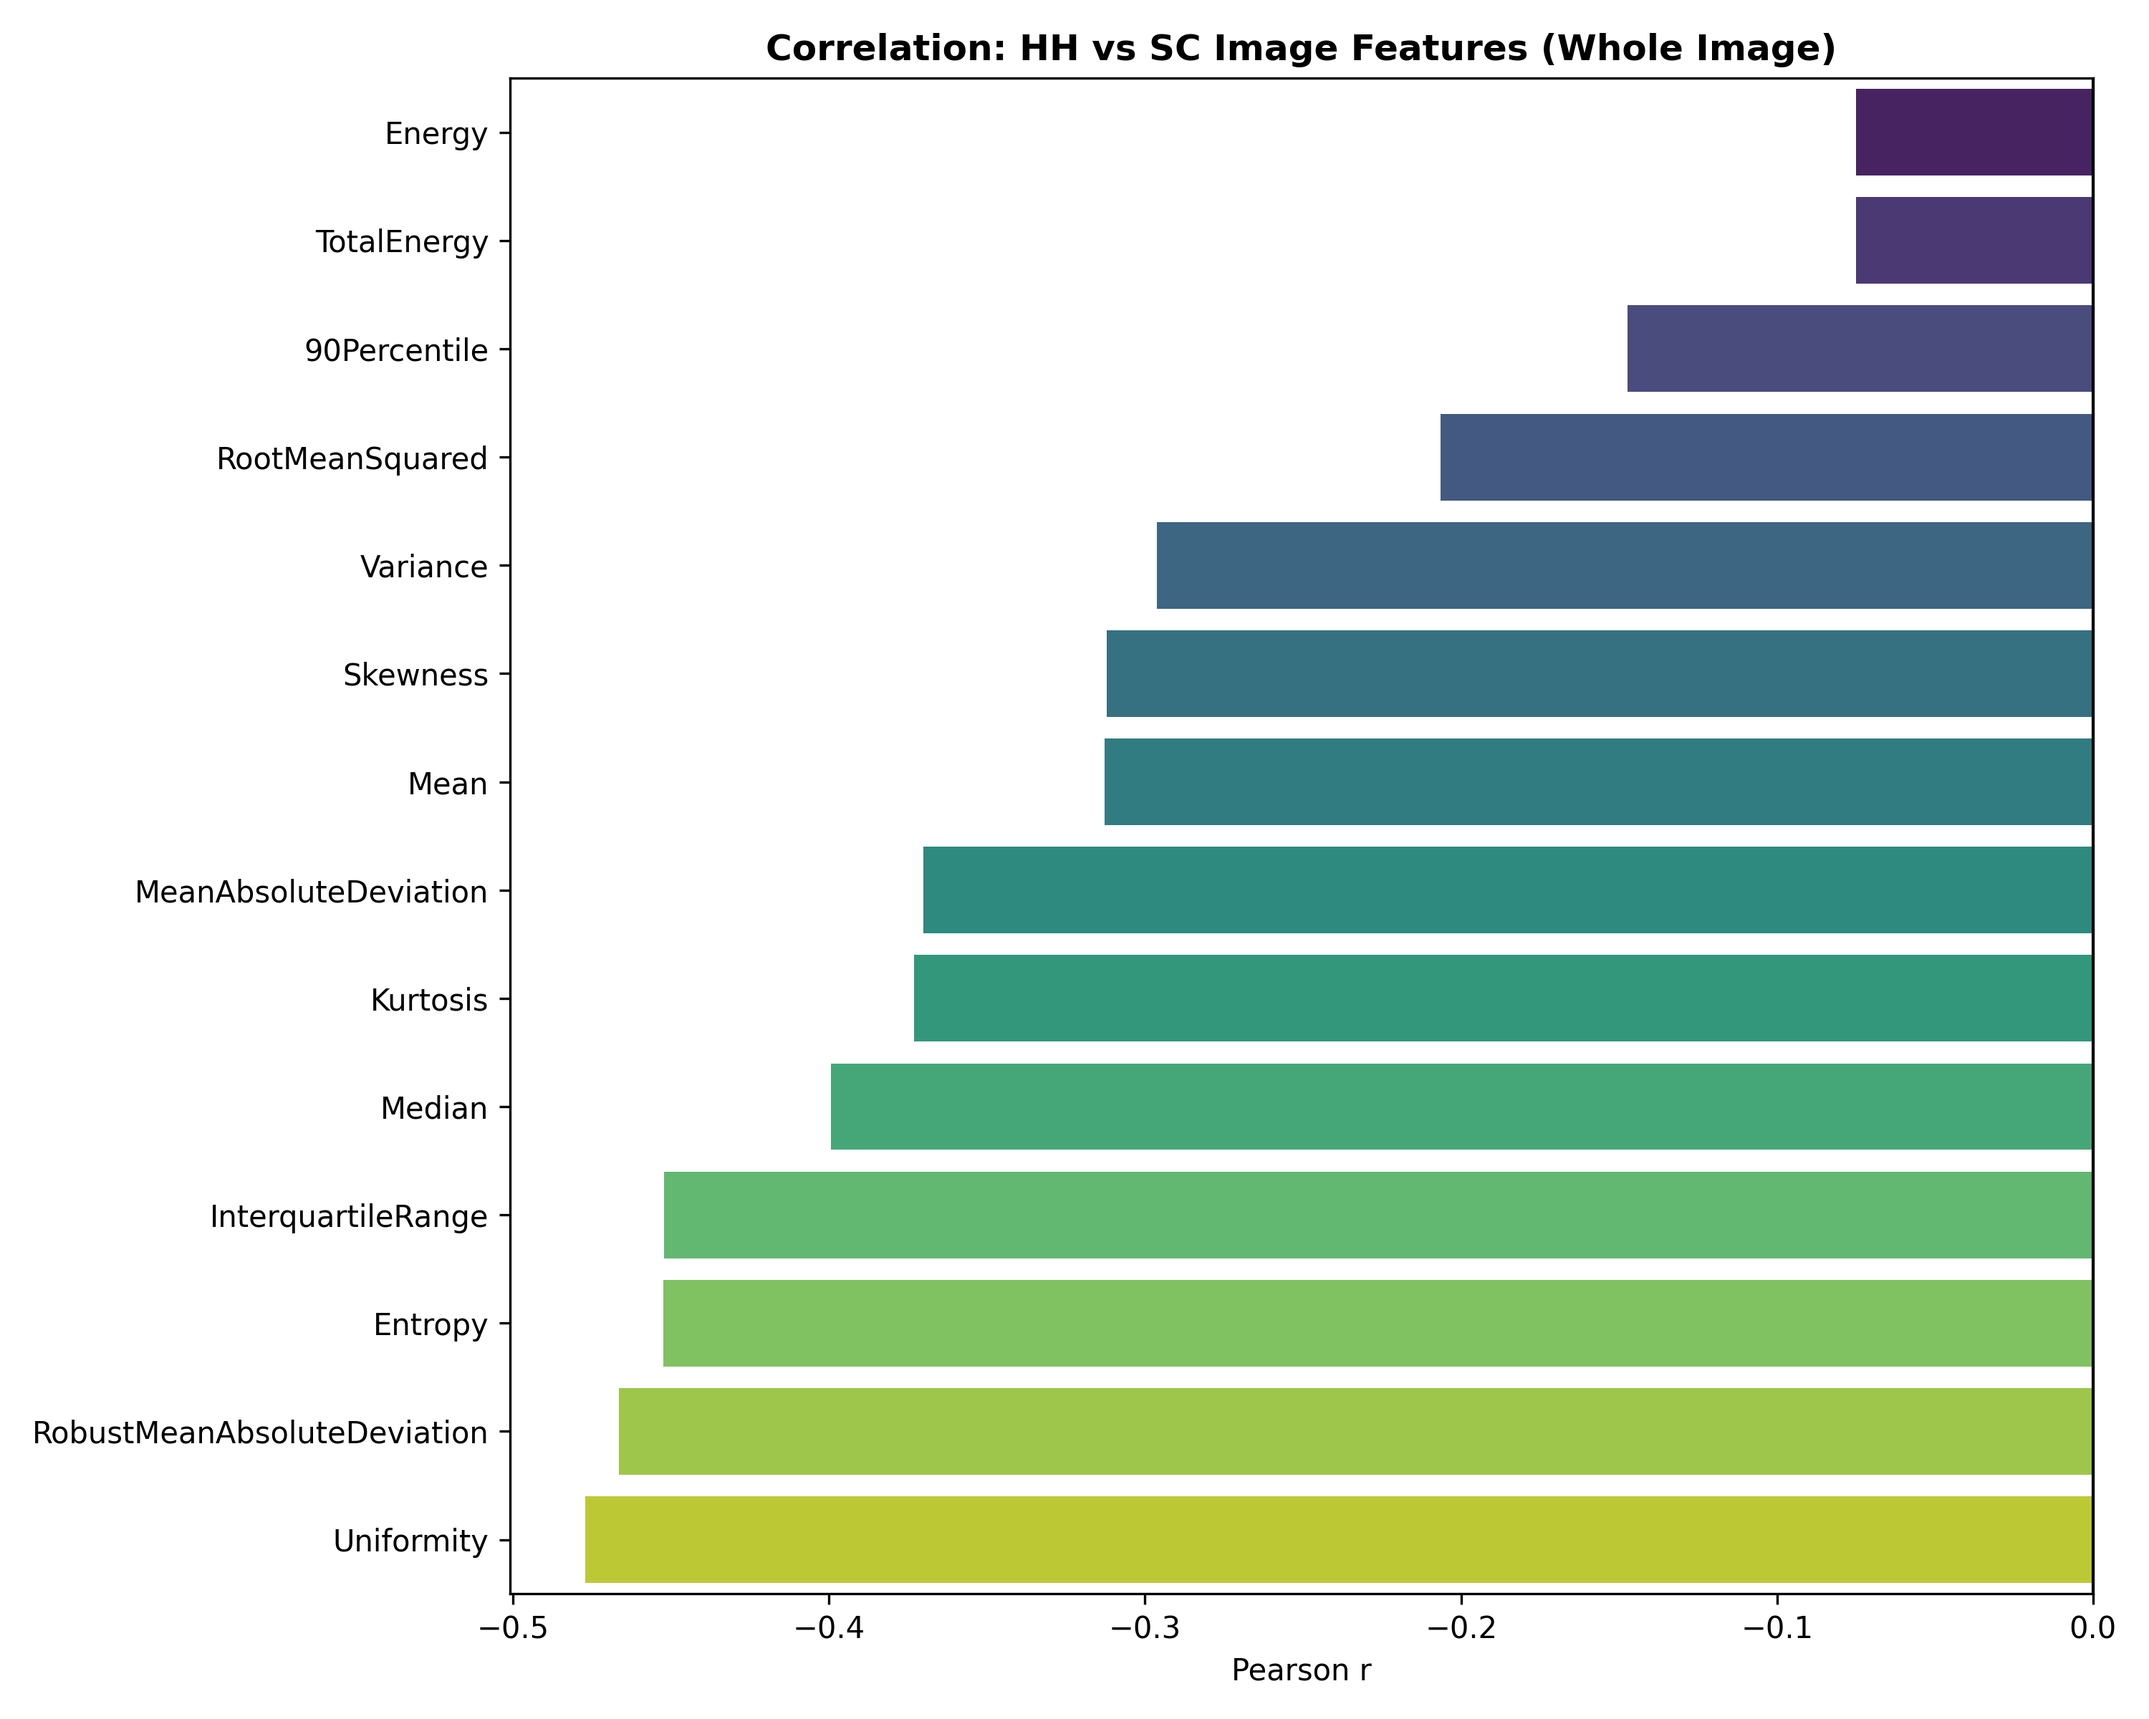
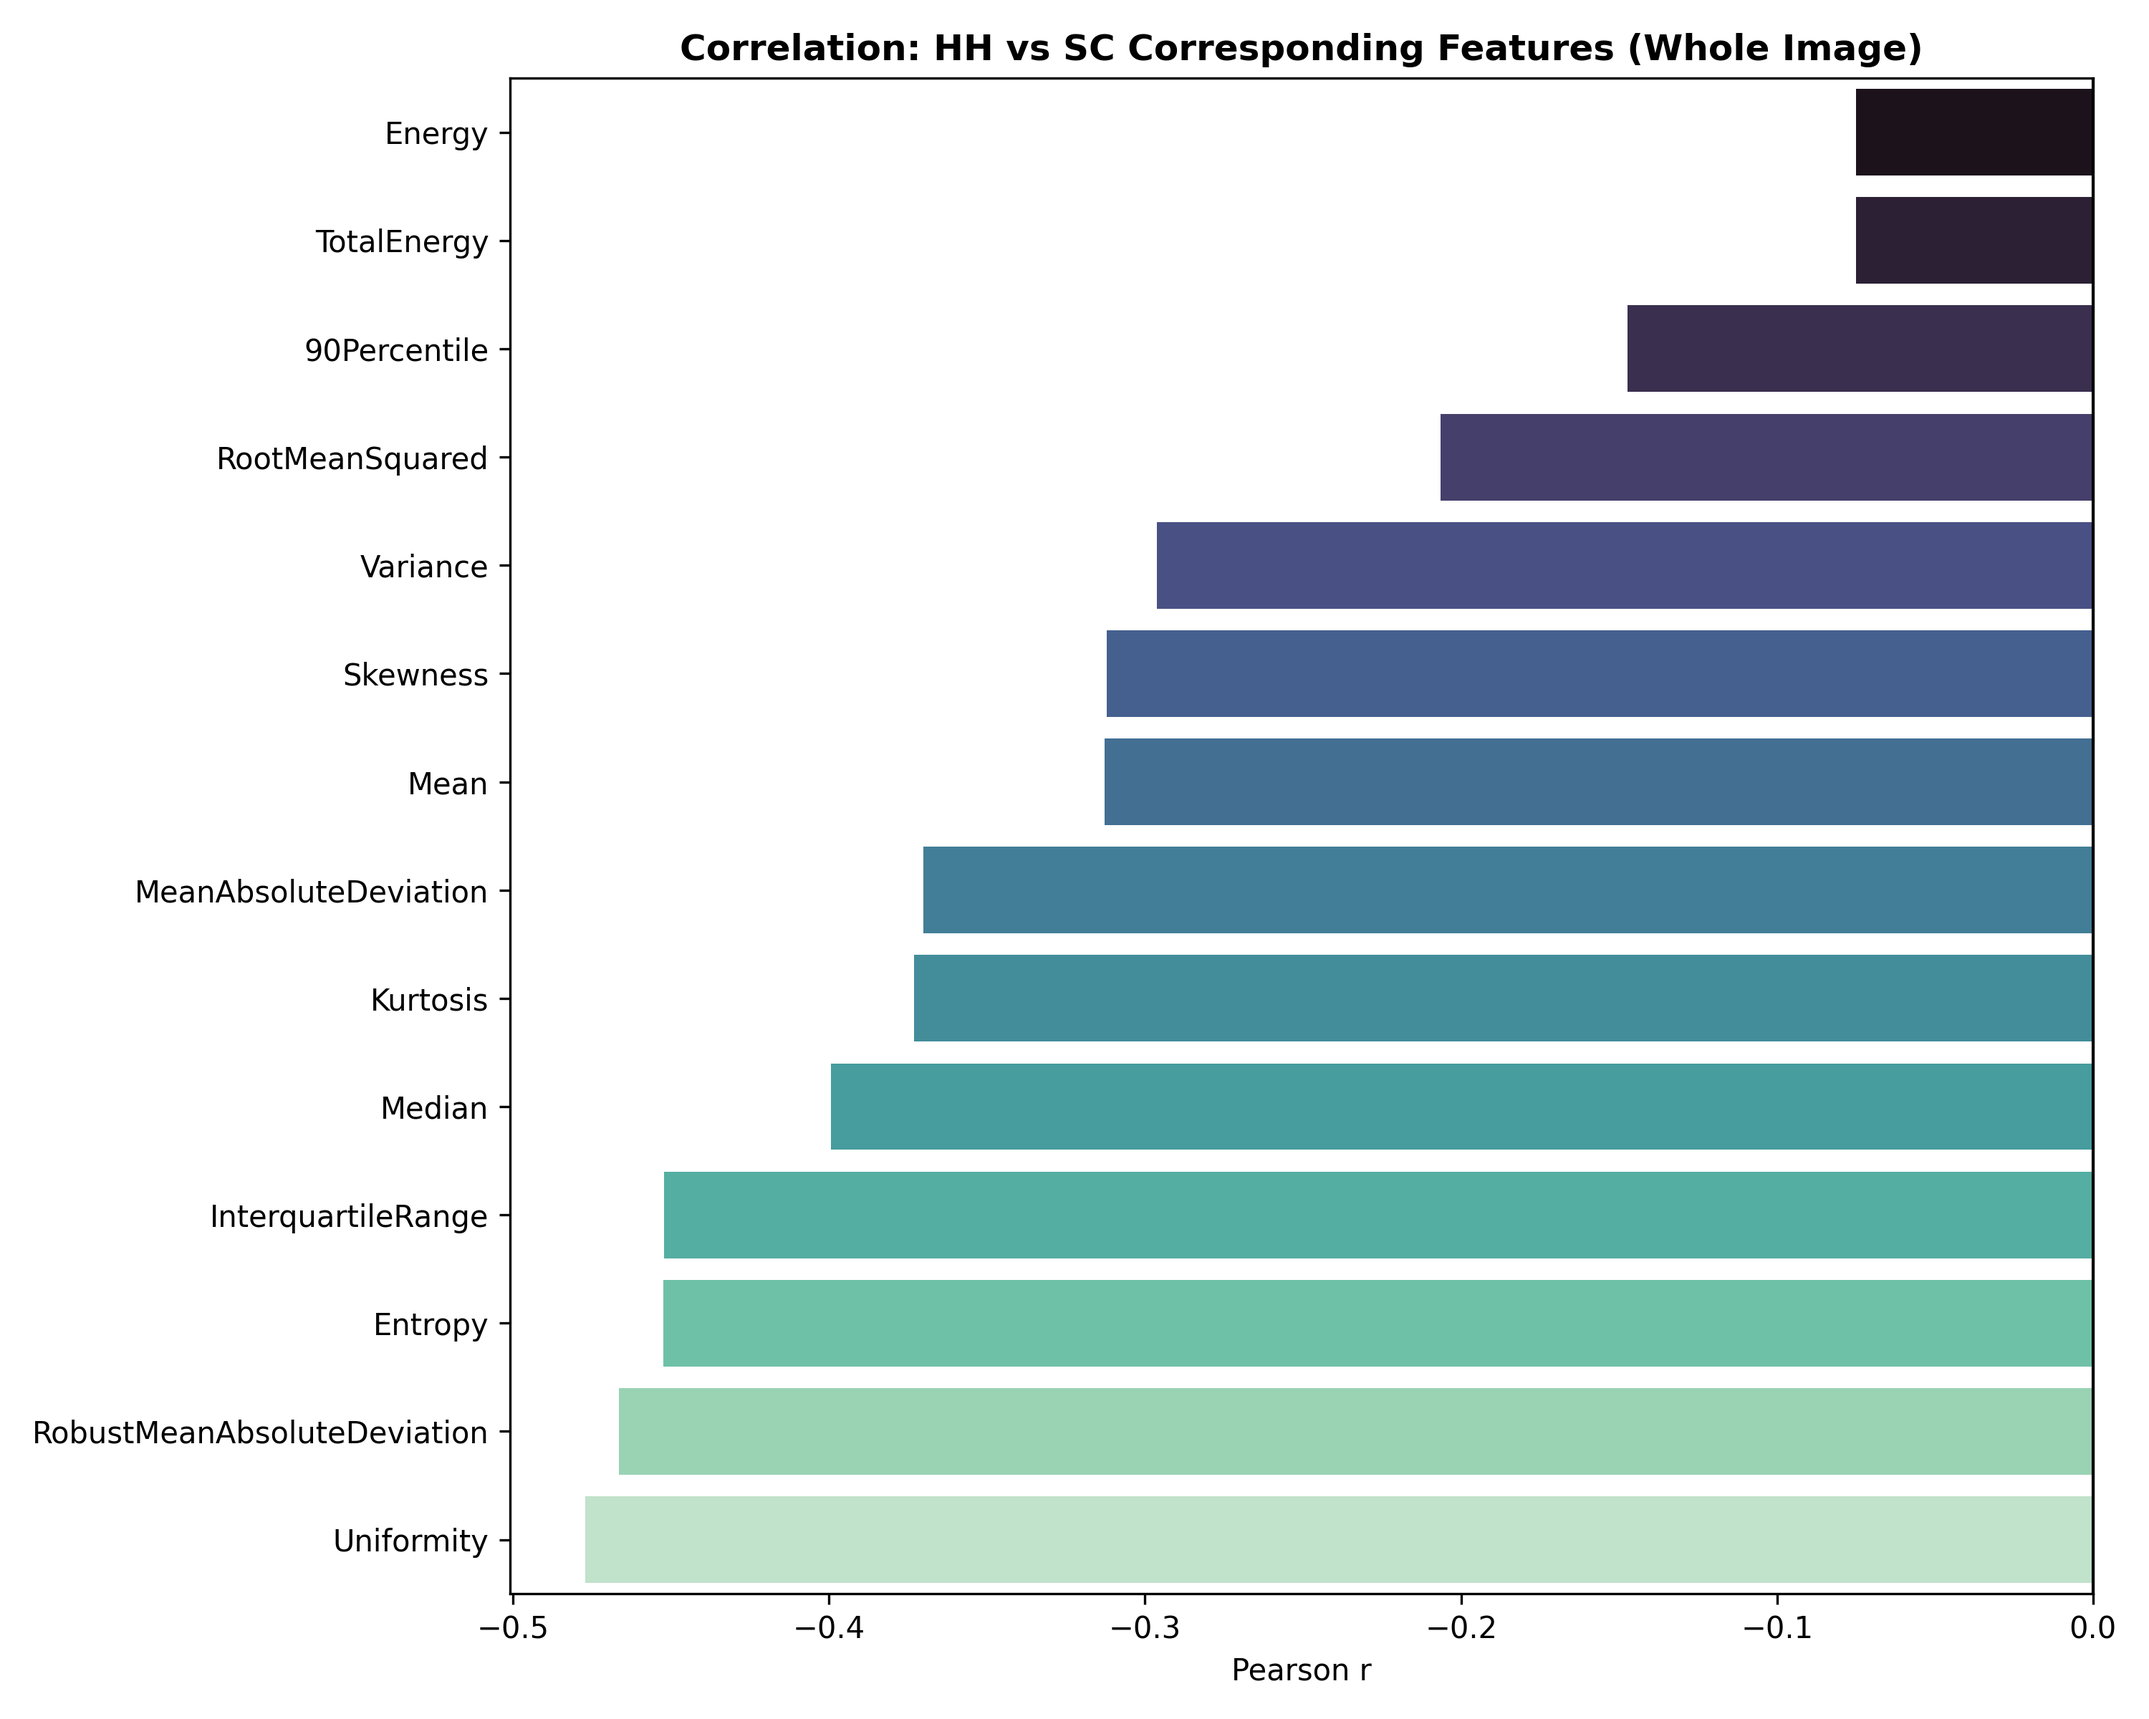
Add full cross-correlation radiomics heatmap

Changed region(s): [[0.248, 0.5312, 0.992, 0.9375], [0.31, 0.0, 0.992, 0.3125]]

diff --git a/radiomics_comparison.py b/radiomics_comparison.py
@@ -171,20 +171,44 @@ def main():
         print("\nNo varying features for correlation analysis.")
         return
 
+    # 1. Bar plot of diagonal correlations (paired corresponding features)
     corr_series = pd.Series(corr_data).sort_values(ascending=False)
-    
-    # Generate Heatmap
     plt.figure(figsize=(10, 8))
-    sns.barplot(x=corr_series.values, y=corr_series.index, palette="viridis")
+    sns.barplot(x=corr_series.values, y=corr_series.index, palette="mako")
     plt.axvline(0, color='black', lw=1)
-    plt.title("Correlation: HH vs SC Image Features (Whole Image)", fontweight="bold")
+    plt.title("Correlation: HH vs SC Corresponding Features (Whole Image)", fontweight="bold")
     plt.xlabel("Pearson r")
     plt.tight_layout()
     plt.savefig(os.path.join(FIG_DIR, "radiomics_correlation_summary.png"), dpi=300)
     
+    # 2. Full Cross-Correlation Heatmap (HH features vs SC features)
+    # Extract just the feature columns for HH and SC
+    hh_cols = [c for c in df.columns if c.startswith("HH_") and c.replace("HH_", "") in corr_series.index]
+    sc_cols = [c for c in df.columns if c.startswith("SC_") and c.replace("SC_", "") in corr_series.index]
+    
+    # Compute the cross-correlation matrix (HH vs SC)
+    cross_corr = pd.DataFrame(index=[c.replace("HH_", "") for c in hh_cols], 
+                              columns=[c.replace("SC_", "") for c in sc_cols])
+    
+    for h_col in hh_cols:
+        for s_col in sc_cols:
+            r = df[[h_col, s_col]].dropna().corr().iloc[0, 1]
+            cross_corr.loc[h_col.replace("HH_", ""), s_col.replace("SC_", "")] = r
+            
+    cross_corr = cross_corr.astype(float)
+    
+    plt.figure(figsize=(12, 10))
+    sns.heatmap(cross_corr, annot=True, fmt=".2f", cmap="coolwarm", center=0, 
+                cbar_kws={'label': 'Pearson r'})
+    plt.title("Cross-Correlation Heatmap: HH Features vs SC Features", fontweight="bold")
+    plt.xlabel("Standard Care (SC) Features")
+    plt.ylabel("Handheld (HH) Features")
+    plt.tight_layout()
+    plt.savefig(os.path.join(FIG_DIR, "radiomics_heatmap.png"), dpi=300)
+    
     print("\nSummary of correlations:")
     print(corr_series.to_string())
-    print("\n✓ Analysis complete.")
+    print(f"\n✓ Analysis complete. Heatmap saved to {os.path.join(FIG_DIR, 'radiomics_heatmap.png')}")
 
 if __name__ == "__main__":
     main()
